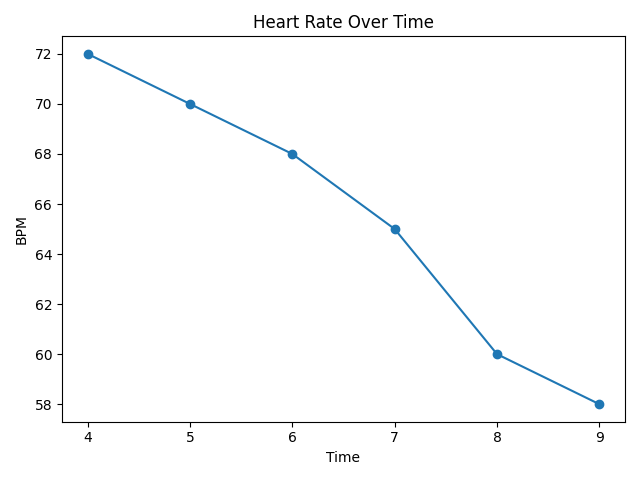
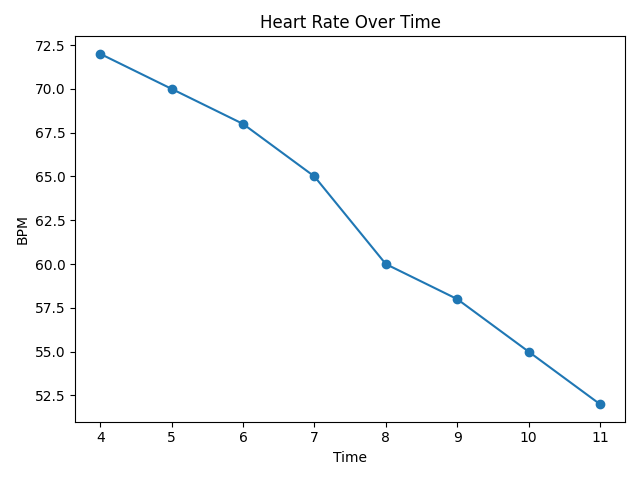
Predicting

diff --git a/src/predict.py b/src/predict.py
@@ -1,13 +1,21 @@
 import pandas as pd
 import joblib
+import os
 
 model = joblib.load("models/model.pkl")
 
-recent_bpm = [75, 74, 73, 72, 70, 68, 65, 60, 58]
+recent_bpm = [75, 74, 73, 72, 70, 68, 65, 60, 58, 55, 52]
+
+alert_threshold = 0.7
+danger_threshold = 60
 
 print("\n--- Real-Time Risk Prediction ---\n")
 
-for i in range(4, len(recent_bpm)):
+results = []
+alert_time = None
+danger_time = None
+
+for i in range(4, len(recent_bpm) + 1):
     window = recent_bpm[:i]
 
     df = pd.DataFrame({"bpm": window})
@@ -16,7 +24,6 @@ for i in range(4, len(recent_bpm)):
     df["delta"] = df["bpm"] - df["bpm_prev"]
     df["rolling_mean"] = df["bpm"].rolling(window=3).mean()
     df["rolling_std"] = df["bpm"].rolling(window=3).std()
-
     df["acceleration"] = df["delta"].diff()
     df["trend"] = df["rolling_mean"].diff()
 
@@ -32,5 +39,48 @@ for i in range(4, len(recent_bpm)):
     ]].iloc[[-1]]
 
     prob = model.predict_proba(input_data)[0][1]
+    bpm_now = window[-1]
 
-    print(f"Time {i}: BPM={window[-1]} | Risk={prob:.3f}")
+    print(f"Time {i}: BPM={bpm_now} | Risk={prob:.3f}")
+
+    results.append({
+        "time": i,
+        "bpm": bpm_now,
+        "risk": prob
+    })
+
+    if alert_time is None and prob >= alert_threshold:
+        alert_time = i
+
+    if danger_time is None and bpm_now < danger_threshold:
+        danger_time = i
+
+os.makedirs("results", exist_ok=True)
+pd.DataFrame(results).to_csv("results/risk_predictions.csv", index=False)
+
+print("\nSaved predictions to results/risk_predictions.csv")
+
+print("\n--- Early Warning Analysis ---")
+print(f"Alert threshold: {alert_threshold}")
+print(f"Danger threshold BPM: {danger_threshold}")
+
+if alert_time is not None:
+    print(f"Model alert time: {alert_time}")
+else:
+    print("Model never crossed alert threshold.")
+
+if danger_time is not None:
+    print(f"Danger threshold crossing time: {danger_time}")
+else:
+    print("BPM never crossed danger threshold.")
+
+if alert_time is not None and danger_time is not None:
+    lead_time = danger_time - alert_time
+    print(f"Lead time: {lead_time} timesteps")
+
+    if lead_time > 0:
+        print("Model provided an early warning before danger threshold.")
+    elif lead_time == 0:
+        print("Model alerted at the same time as danger threshold.")
+    else:
+        print("Model alerted after danger threshold.")

diff --git a/README.md b/README.md
@@ -1,0 +1,60 @@
+# AUMP — Adaptive Universal Monitoring Platform
+
+AUMP is a machine learning–based early warning system for simulated bradycardia detection. The goal of the project is to move beyond simple threshold-based monitoring by using recent BPM (beats per minute) trends to estimate short-term crash risk before a dangerous threshold is crossed.
+
+This project is designed as an early-stage research prototype that combines:
+- physiological time-series simulation
+- temporal feature engineering
+- machine learning risk prediction
+- real-time warning analysis
+- visualization of crash risk over time
+
+---
+
+## Project Goal
+
+Traditional threshold-based systems only react once a patient's BPM falls below a dangerous value. AUMP explores whether machine learning can identify **rising crash risk earlier** by looking at:
+- current BPM
+- recent BPM changes
+- short-term trend
+- short-term variability
+
+The long-term goal is to develop a smarter early-warning layer that could eventually integrate with wearable health monitoring systems.
+
+---
+
+## Current Features
+
+- Synthetic BPM sequence generation with gradual deterioration
+- Probabilistic crash labeling
+- Temporal feature engineering
+- Logistic Regression baseline model
+- Random Forest comparison model
+- ROC-AUC evaluation
+- Real-time risk prediction from recent BPM readings
+- Early warning lead time calculation
+- BPM-over-time and risk-over-time visualization
+
+---
+
+## Project Structure
+
+```text
+AUMP/
+├── src/
+│   ├── generate_data.py
+│   ├── train_model.py
+│   ├── predict.py
+│   └── plot_risk.py
+├── data/
+│   └── simulated_data.csv
+├── models/
+│   └── model.pkl
+├── results/
+│   ├── roc_curve_comparison.png
+│   ├── risk_predictions.csv
+│   ├── bpm_over_time.png
+│   └── risk_over_time.png
+├── requirements.txt
+├── README.md
+└── .gitignore
